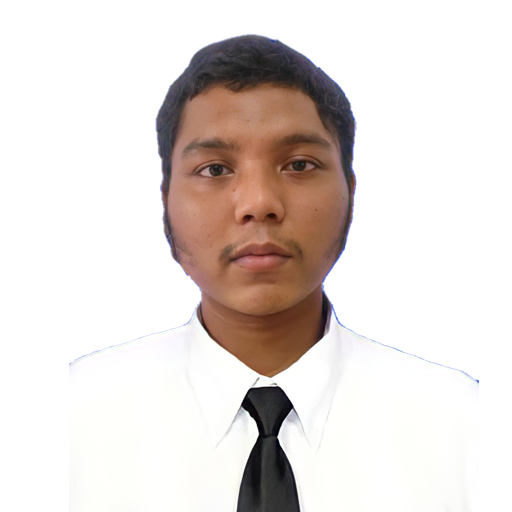
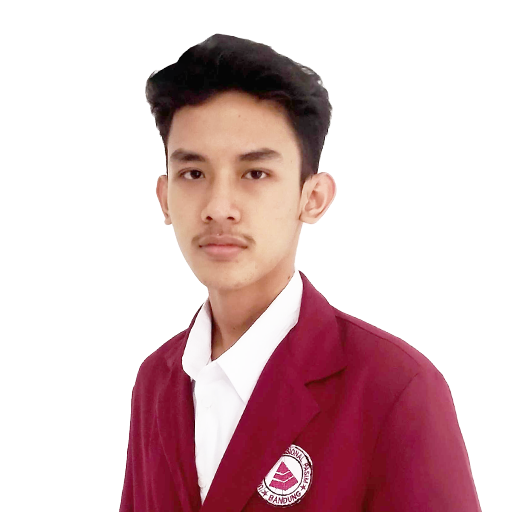
candidate photo background

diff --git a/pages/election/index.tsx b/pages/election/index.tsx
@@ -6,40 +6,20 @@ import Image from "next/image";
 import MaterialThemed from "../../components/material-themed";
 
 export const candidates = [
-  // {
-  //   number: 1,
-  //   name: "Anggi Permana",
-  //   color: "#f44336",
-  // },
-  // {
-  //   number: 2,
-  //   name: "Azriel Pazarudin",
-  //   color: "#ffc107",
-  // },
-  // {
-  //   number: 3,
-  //   name: "Fadli Fathurrahman",
-  //   color: "#4caf50",
-  // },
-  // {
-  //   number: 4,
-  //   name: "Sawaluddin Siregar",
-  //   color: "#2196f3",
-  // },
   {
     number: 1,
-    name: "???? ????",
+    name: "Anggi Permana",
     color: "#f44336",
   },
   {
     number: 2,
-    name: "???? ????",
+    name: "Fadli Fathurrahman",
     color: "#ffc107",
   },
   {
     number: 3,
-    name: "???? ????",
-    color: "#4caf50",
+    name: "Sawaluddin Siregar",
+    color: "#2196f3",
   },
 ];
 

diff --git a/components/election/candidate-card.tsx b/components/election/candidate-card.tsx
@@ -14,13 +14,12 @@ const CandidateCard = ({ candidate }: any) => {
             0{candidate.number}
           </div>
           <Image
-            // src={`/images/election-candidates/${candidate.number}.png`}
-            src="/images/pica.png"
+            src={`/images/election-candidates/${candidate.number}.png`}
             alt={candidate.name}
             // layout="responsive"
             width={256}
             height={256}
-            className={"z-0 rounded-full bg-secondary-container"}
+            className="z-0 rounded-full bg-secondary-container bg-[url('/images/pub-logo-animated-background.svg')] bg-blend-luminosity"
           ></Image>
         </div>
         <div className="flex flex-col flex-1 gap-4">

diff --git a/tailwind.config.js b/tailwind.config.js
@@ -25,7 +25,7 @@ module.exports = {
   },
   plugins: [
     require("m3-tokens/tailwind")({
-      source: "#448aff",
+      source: "#6750a4",
     }),
   ],
   darkMode: "class",
